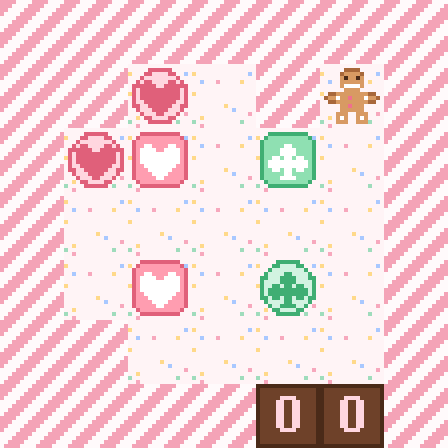
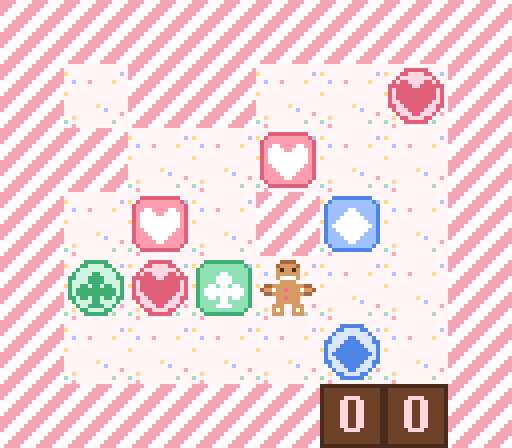
Caramelos Pegajosos: 3 niveles nuevos (Chicle en la esquina, Racion doble, Atasco de golosinas); ahora 9

diff --git a/index.html b/index.html
@@ -20744,7 +20744,7 @@ function Animatable(key, increment, update) {
[1 lines of base64/hex data omitted]
 </div>
 
-<script>const sourceCode="title Caramelos Pegajosos\nauthor Spider\nhomepage spyder-cripto.github.io\nsprite_size 16\nbackground_color #fff4f6\ntext_color #6e4129\ntext_controls Flechas o deslizar: mover. Z: deshacer. R: reiniciar.\nnoaction\nrun_rules_on_level_start\n\n========\nOBJECTS\n========\n\nBackground\n#fff4f6 #f7a8bd #9fdcbc #ffd98a #a9c8ff\n0000000000000000\n0000000000000000\n3000000000000040\n0000000000000000\n0040001000003000\n0000000000000000\n0000000000000000\n3000000000000000\n0000000000000000\n0000000000000000\n0000000030000000\n0000000000400000\n0000000000000010\n0030000000000000\n2000000000002000\n0010000000000000\n\nWall\n#f4a3b7 #fffafb\n0000111100001111\n0001111000011110\n0011110000111100\n0111100001111000\n1111000011110000\n1110000111100001\n1100001111000011\n1000011110000111\n0000111100001111\n0001111000011110\n0011110000111100\n0111100001111000\n1111000011110000\n1110000111100001\n1100001111000011\n1000011110000111\n\nTapaCifra\n#f4a3b7 #fffafb\n0000111100001111\n0001111000011110\n0011110000111100\n0111100001111000\n1111000011110000\n1110000111100001\n1100001111000011\n1000011110000111\n0000111100001111\n0001111000011110\n0011110000111100\n0111100001111000\n1111000011110000\n1110000111100001\n1100001111000011\n1000011110000111\n\nPlayer\n#a8673a #d89a63 #ffffff #f06f8f #4a2a18\n................\n......0000......\n.....011110.....\n.....141141.....\n.....111111.....\n.....122221.....\n......1111......\n..001111111100..\n.01121131112110.\n..001111111100..\n.....113111.....\n.....111111.....\n....111..111....\n....121..121....\n....111..111....\n................\n\nCR\n#e0607a #ff9db0 #ffffff #c98a12 #ffe08a\n................\n...0000000000...\n..011111111110..\n.01111111111110.\n.01122111122110.\n.01222211222210.\n.01222222222210.\n.01222222222210.\n.01222222222210.\n.01122222222110.\n.01112222221110.\n.01111222211110.\n.01111122111110.\n..011111111110..\n...0000000000...\n................\n\nRD\n#e0607a #ff9db0 #ffffff #c98a12 #ffe08a\n................\n...3333333333...\n..344444444443..\n.34111111111143.\n.34122111122143.\n.34222211222243.\n.34222222222243.\n.34222222222243.\n.34222222222243.\n.34122222222143.\n.34112222221143.\n.34111222211143.\n.34111122111143.\n..344444444443..\n...3333333333...\n................\n\nCG\n#3fae73 #8fe0b2 #ffffff #c98a12 #ffe08a\n................\n...0000000000...\n..011111111110..\n.01111111111110.\n.01111122111110.\n.01111222211110.\n.01111222211110.\n.01122122122110.\n.01222222222210.\n.01222222222210.\n.01122122122110.\n.01111122111110.\n.01111222211110.\n..011111111110..\n...0000000000...\n................\n\nGD\n#3fae73 #8fe0b2 #ffffff #c98a12 #ffe08a\n................\n...3333333333...\n..344444444443..\n.34111111111143.\n.34111122111143.\n.34111222211143.\n.34111222211143.\n.34122122122143.\n.34222222222243.\n.34222222222243.\n.34122122122143.\n.34111122111143.\n.34111222211143.\n..344444444443..\n...3333333333...\n................\n\nCB\n#4f86e6 #9fc2ff #ffffff #c98a12 #ffe08a\n................\n...0000000000...\n..011111111110..\n.01111111111110.\n.01111122111110.\n.01111222211110.\n.01112222221110.\n.01122222222110.\n.01222222222210.\n.01122222222110.\n.01112222221110.\n.01111222211110.\n.01111122111110.\n..011111111110..\n...0000000000...\n................\n\nBD\n#4f86e6 #9fc2ff #ffffff #c98a12 #ffe08a\n................\n...3333333333...\n..344444444443..\n.34111111111143.\n.34111122111143.\n.34111222211143.\n.34112222221143.\n.34122222222143.\n.34222222222243.\n.34122222222143.\n.34112222221143.\n.34111222211143.\n.34111122111143.\n..344444444443..\n...3333333333...\n................\n\nCV\n#8a62d6 #c8acf5 #ffffff #c98a12 #ffe08a\n................\n...0000000000...\n..011111111110..\n.01111111111110.\n.01111122111110.\n.01111222211110.\n.01112222221110.\n.01122222222110.\n.01222222222210.\n.01222222222210.\n.01122122122110.\n.01111122111110.\n.01111222211110.\n..011111111110..\n...0000000000...\n................\n\nVD\n#8a62d6 #c8acf5 #ffffff #c98a12 #ffe08a\n................\n...3333333333...\n..344444444443..\n.34111111111143.\n.34111122111143.\n.34111222211143.\n.34112222221143.\n.34122222222143.\n.34222222222243.\n.34222222222243.\n.34122122122143.\n.34111122111143.\n.34111222211143.\n..344444444443..\n...3333333333...\n................\n\nTR\n#e0607a #ffd6df\n................\n.....000000.....\n....00111100....\n...0111111110...\n..010011110010..\n.00000011000000.\n.01000000000010.\n.01000000000010.\n.01000000000010.\n.01100000000110.\n.00110000001100.\n..011100001110..\n...0111001110...\n....00111100....\n.....000000.....\n................\n\nTG\n#3fae73 #d2f3e1\n................\n.....000000.....\n....00111100....\n...0111111110...\n..011110011110..\n.00111000011100.\n.01111000011110.\n.01100100100110.\n.01000000000010.\n.01000000000010.\n.00100100100100.\n..011110011110..\n...0110000110...\n....00111100....\n.....000000.....\n................\n\nTB\n#4f86e6 #d9e6ff\n................\n.....000000.....\n....00111100....\n...0111111110...\n..011110011110..\n.00111000011100.\n.01110000001110.\n.01100000000110.\n.01000000000010.\n.01100000000110.\n.00110000001100.\n..011100001110..\n...0111001110...\n....00111100....\n.....000000.....\n................\n\nTV\n#8a62d6 #ebdffb\n................\n.....000000.....\n....00111100....\n...0111111110...\n..011110011110..\n.00111000011100.\n.01110000001110.\n.01100000000110.\n.01000000000010.\n.01000000000010.\n.00100100100100.\n..011110011110..\n...0110000110...\n....00111100....\n.....000000.....\n................\n\nD0\n#4a2a18 #6e4129 #ffd6e0\n0000000000000000\n0111111111111110\n0111111111111110\n0111112222111110\n0111122112211110\n0111122112211110\n0111122112211110\n0111122112211110\n0111122112211110\n0111122112211110\n0111122112211110\n0111112222111110\n0111111111111110\n0111111111111110\n0111111111111110\n0000000000000000\n\nD1\n#4a2a18 #6e4129 #ffd6e0\n0000000000000000\n0111111111111110\n0111111111111110\n0111111221111110\n0111112221111110\n0111111221111110\n0111111221111110\n0111111221111110\n0111111221111110\n0111111221111110\n0111111221111110\n0111112222111110\n0111111111111110\n0111111111111110\n0111111111111110\n0000000000000000\n\nD2\n#4a2a18 #6e4129 #ffd6e0\n0000000000000000\n0111111111111110\n0111111111111110\n0111112222111110\n0111122112211110\n0111111112211110\n0111111122111110\n0111111221111110\n0111112211111110\n0111122111111110\n0111122111111110\n0111122222211110\n0111111111111110\n0111111111111110\n0111111111111110\n0000000000000000\n\nD3\n#4a2a18 #6e4129 #ffd6e0\n0000000000000000\n0111111111111110\n0111111111111110\n0111112222111110\n0111122112211110\n0111111112211110\n0111111222111110\n0111111112211110\n0111111112211110\n0111111112211110\n0111122112211110\n0111112222111110\n0111111111111110\n0111111111111110\n0111111111111110\n0000000000000000\n\nD4\n#4a2a18 #6e4129 #ffd6e0\n0000000000000000\n0111111111111110\n0111111111111110\n0111111122111110\n0111111222111110\n0111112222111110\n0111122122111110\n0111122122111110\n0111122222211110\n0111111122111110\n0111111122111110\n0111111122111110\n0111111111111110\n0111111111111110\n0111111111111110\n0000000000000000\n\nD5\n#4a2a18 #6e4129 #ffd6e0\n0000000000000000\n0111111111111110\n0111111111111110\n0111122222211110\n0111122111111110\n0111122111111110\n0111122222111110\n0111111112211110\n0111111112211110\n0111111112211110\n0111122112211110\n0111112222111110\n0111111111111110\n0111111111111110\n0111111111111110\n0000000000000000\n\nD6\n#4a2a18 #6e4129 #ffd6e0\n0000000000000000\n0111111111111110\n0111111111111110\n0111112222111110\n0111122112211110\n0111122111111110\n0111122222111110\n0111122112211110\n0111122112211110\n0111122112211110\n0111122112211110\n0111112222111110\n0111111111111110\n0111111111111110\n0111111111111110\n0000000000000000\n\nD7\n#4a2a18 #6e4129 #ffd6e0\n0000000000000000\n0111111111111110\n0111111111111110\n0111122222211110\n0111111112211110\n0111111112211110\n0111111122111110\n0111111122111110\n0111111221111110\n0111111221111110\n0111111221111110\n0111111221111110\n0111111111111110\n0111111111111110\n0111111111111110\n0000000000000000\n\nD8\n#4a2a18 #6e4129 #ffd6e0\n0000000000000000\n0111111111111110\n0111111111111110\n0111112222111110\n0111122112211110\n0111122112211110\n0111112222111110\n0111122112211110\n0111122112211110\n0111122112211110\n0111122112211110\n0111112222111110\n0111111111111110\n0111111111111110\n0111111111111110\n0000000000000000\n\nD9\n#4a2a18 #6e4129 #ffd6e0\n0000000000000000\n0111111111111110\n0111111111111110\n0111112222111110\n0111122112211110\n0111122112211110\n0111122112211110\n0111112222211110\n0111111112211110\n0111111112211110\n0111122112211110\n0111112222111110\n0111111111111110\n0111111111111110\n0111111111111110\n0000000000000000\n\nU_Marker\ntransparent\n\nT_Marker\ntransparent\n\nH_Marker\ntransparent\n\nMovS\ntransparent\n\nCar1\ntransparent\n\nCar2\ntransparent\n\nPegaR\n#ffd98a #e0a83c\n................\n................\n................\n................\n................\n.............111\n.............000\n.............000\n.............000\n.............000\n.............111\n................\n................\n................\n................\n................\n\nPegaL\n#ffd98a #e0a83c\n................\n................\n................\n................\n................\n111.............\n000.............\n000.............\n000.............\n000.............\n111.............\n................\n................\n................\n................\n................\n\nPegaD\n#ffd98a #e0a83c\n................\n................\n................\n................\n................\n................\n................\n................\n................\n................\n................\n................\n................\n.....100001.....\n.....100001.....\n.....100001.....\n\nPegaU\n#ffd98a #e0a83c\n.....100001.....\n.....100001.....\n.....100001.....\n................\n................\n................\n................\n................\n................\n................\n................\n................\n................\n................\n................\n................\n\nChicle\n#d9568f #ff9cc6 #ffffff #ffe3f0\n................\n................\n.....000000.....\n....011112222...\n...0111112332...\n..011111233332..\n..011111123320..\n.01111111222210.\n.01111111111110.\n.01111111111110.\n..011111111110..\n..011111111110..\n...0111111110...\n....01111110....\n.....000000.....\n................\n\n=======\nLEGEND\n=======\n\n. = Background\n# = Wall\np = Player\na = CR\nb = CG\nc = CB\nd = CV\nn = Chicle\nx = TR\ny = TG\nz = TB\nw = TV\n1 = RD and TR\n2 = GD and TG\n3 = BD and TB\n7 = VD and TV\n4 = Player and TR\n5 = Player and TG\n6 = Player and TB\n8 = Player and TV\ne = H_Marker and D0 and TapaCifra\nf = T_Marker and D0\ng = U_Marker and D0\nRojo = CR or RD\nVerde = CG or GD\nAzul = CB or BD\nVioleta = CV or VD\nCandy = Rojo or Verde or Azul or Violeta or Chicle\nDigit = D0 or D1 or D2 or D3 or D4 or D5 or D6 or D7 or D8 or D9\nObstaculo = Wall or Digit\nPega = PegaL or PegaR or PegaU or PegaD\n\n=======\nSOUNDS\n=======\n\n================\nCOLLISIONLAYERS\n================\n\nBackground\nTR, TG, TB, TV\nU_Marker, T_Marker, H_Marker\nPlayer, Wall, CR, RD, CG, GD, CB, BD, CV, VD, Chicle, D0, D1, D2, D3, D4, D5, D6, D7, D8, D9\nPegaL\nPegaR\nPegaU\nPegaD\nTapaCifra\nMovS\nCar1\nCar2\n\n======\nRULES\n======\n\n( Mecánica de Sticky Candy Puzzle Saga, de Alan Hazelden: los caramelos que se tocan quedan pegados para siempre )\n( y se mueven juntos; si uno solo choca, no se mueve ninguno. )\n[ > Player no MovS ] -> [ > Player MovS ]\n[ > Player | Candy ] -> [ > Player | > Candy ]\n[ moving Candy | stationary Candy ] -> [ moving Candy | moving Candy ]\n[ > Candy | Obstaculo ] [ > Player | > Candy ] -> [ Candy | Obstaculo ] [ > Player | Candy ]\n[ > Player | stationary Candy ] [ moving Candy ] -> [ > Player | Candy ] [ Candy ]\n\n( Caramelo en su zona: ribete dorado )\nlate [ CR TR ] -> [ RD TR ]\nlate [ RD no TR ] -> [ CR ]\nlate [ CG TG ] -> [ GD TG ]\nlate [ GD no TG ] -> [ CG ]\nlate [ CB TB ] -> [ BD TB ]\nlate [ BD no TB ] -> [ CB ]\nlate [ CV TV ] -> [ VD TV ]\nlate [ VD no TV ] -> [ CV ]\n\n( Puentes de miel entre los caramelos pegados )\nlate [ Pega ] -> [ ]\nlate right [ Candy | Candy ] -> [ Candy PegaR | Candy PegaL ]\nlate down [ Candy | Candy ] -> [ Candy PegaD | Candy PegaU ]\n\n( Contador de pasos, copiado de El Cubo de Hielo )\nlate [ Player MovS ] -> [ Player ]\n\nlate [ MovS ] [ U_Marker D0 ] -> [ ] [ U_Marker D1 ]\nlate [ MovS ] [ U_Marker D1 ] -> [ ] [ U_Marker D2 ]\nlate [ MovS ] [ U_Marker D2 ] -> [ ] [ U_Marker D3 ]\nlate [ MovS ] [ U_Marker D3 ] -> [ ] [ U_Marker D4 ]\nlate [ MovS ] [ U_Marker D4 ] -> [ ] [ U_Marker D5 ]\nlate [ MovS ] [ U_Marker D5 ] -> [ ] [ U_Marker D6 ]\nlate [ MovS ] [ U_Marker D6 ] -> [ ] [ U_Marker D7 ]\nlate [ MovS ] [ U_Marker D7 ] -> [ ] [ U_Marker D8 ]\nlate [ MovS ] [ U_Marker D8 ] -> [ ] [ U_Marker D9 ]\nlate [ MovS ] [ U_Marker D9 ] -> [ ] [ U_Marker D0 Car1 ]\n\nlate [ Car1 ] [ T_Marker D0 ] -> [ ] [ T_Marker D1 ]\nlate [ Car1 ] [ T_Marker D1 ] -> [ ] [ T_Marker D2 ]\nlate [ Car1 ] [ T_Marker D2 ] -> [ ] [ T_Marker D3 ]\nlate [ Car1 ] [ T_Marker D3 ] -> [ ] [ T_Marker D4 ]\nlate [ Car1 ] [ T_Marker D4 ] -> [ ] [ T_Marker D5 ]\nlate [ Car1 ] [ T_Marker D5 ] -> [ ] [ T_Marker D6 ]\nlate [ Car1 ] [ T_Marker D6 ] -> [ ] [ T_Marker D7 ]\nlate [ Car1 ] [ T_Marker D7 ] -> [ ] [ T_Marker D8 ]\nlate [ Car1 ] [ T_Marker D8 ] -> [ ] [ T_Marker D9 ]\nlate [ Car1 ] [ T_Marker D9 ] -> [ ] [ T_Marker D0 Car2 ]\n\nlate [ Car2 ] [ H_Marker D0 ] -> [ ] [ H_Marker D1 ]\nlate [ Car2 ] [ H_Marker D1 ] -> [ ] [ H_Marker D2 ]\nlate [ Car2 ] [ H_Marker D2 ] -> [ ] [ H_Marker D3 ]\nlate [ Car2 ] [ H_Marker D3 ] -> [ ] [ H_Marker D4 ]\nlate [ Car2 ] [ H_Marker D4 ] -> [ ] [ H_Marker D5 ]\nlate [ Car2 ] [ H_Marker D5 ] -> [ ] [ H_Marker D6 ]\nlate [ Car2 ] [ H_Marker D6 ] -> [ ] [ H_Marker D7 ]\nlate [ Car2 ] [ H_Marker D7 ] -> [ ] [ H_Marker D8 ]\nlate [ Car2 ] [ H_Marker D8 ] -> [ ] [ H_Marker D9 ]\nlate [ TapaCifra ] -> [ ]\nlate [ H_Marker D0 no TapaCifra ] -> [ H_Marker D0 TapaCifra ]\nlate [ MovS ] -> [ ]\n\n==============\nWINCONDITIONS\n==============\n\nAll Rojo on TR\nAll Verde on TG\nAll Azul on TB\nAll Violeta on TV\n\n=======\nLEVELS\n=======\n\nmessage Nivel 1 de 6 · Primer bocado\n\n######\n#p#..#\n#ya..#\n#b...#\n#x...#\n##efg#\n\nmessage Nivel 2 de 6 · Golosina\n\n######\n#x..p#\n#1.a##\n#....#\n#y.b.#\n##efg#\n\nmessage Nivel 3 de 6 · Pegajoso\n\n#######\n#....p#\n#ya.#1#\n#...b.#\n#.b..y#\n#...#x#\n###efg#\n\nmessage Nivel 4 de 6 · Chicle traicionero\n\n########\n#2...#.#\n##..a.p#\n#....#.#\n#..c#..#\n#zn.x.##\n####efg#\n\nmessage Nivel 5 de 6 · Puente de chicle\n\n#######\n##.#..#\n#....a#\n#.x...#\n#yn.b.#\n#p#...#\n###efg#\n\nmessage Nivel 6 de 6 · Empacho\n\n#######\n##x.#p#\n#xa.b.#\n#.....#\n#.a.y.#\n##....#\n###efg#\n";compile(["restart"],sourceCode);</script>
+<script>const sourceCode="title Caramelos Pegajosos\nauthor Spider\nhomepage spyder-cripto.github.io\nsprite_size 16\nbackground_color #fff4f6\ntext_color #6e4129\ntext_controls Flechas o deslizar: mover. Z: deshacer. R: reiniciar.\nnoaction\nrun_rules_on_level_start\n\n========\nOBJECTS\n========\n\nBackground\n#fff4f6 #f7a8bd #9fdcbc #ffd98a #a9c8ff\n0000000000000000\n0000000000000000\n3000000000000040\n0000000000000000\n0040001000003000\n0000000000000000\n0000000000000000\n3000000000000000\n0000000000000000\n0000000000000000\n0000000030000000\n0000000000400000\n0000000000000010\n0030000000000000\n2000000000002000\n0010000000000000\n\nWall\n#f4a3b7 #fffafb\n0000111100001111\n0001111000011110\n0011110000111100\n0111100001111000\n1111000011110000\n1110000111100001\n1100001111000011\n1000011110000111\n0000111100001111\n0001111000011110\n0011110000111100\n0111100001111000\n1111000011110000\n1110000111100001\n1100001111000011\n1000011110000111\n\nTapaCifra\n#f4a3b7 #fffafb\n0000111100001111\n0001111000011110\n0011110000111100\n0111100001111000\n1111000011110000\n1110000111100001\n1100001111000011\n1000011110000111\n0000111100001111\n0001111000011110\n0011110000111100\n0111100001111000\n1111000011110000\n1110000111100001\n1100001111000011\n1000011110000111\n\nPlayer\n#a8673a #d89a63 #ffffff #f06f8f #4a2a18\n................\n......0000......\n.....011110.....\n.....141141.....\n.....111111.....\n.....122221.....\n......1111......\n..001111111100..\n.01121131112110.\n..001111111100..\n.....113111.....\n.....111111.....\n....111..111....\n....121..121....\n....111..111....\n................\n\nCR\n#e0607a #ff9db0 #ffffff #c98a12 #ffe08a\n................\n...0000000000...\n..011111111110..\n.01111111111110.\n.01122111122110.\n.01222211222210.\n.01222222222210.\n.01222222222210.\n.01222222222210.\n.01122222222110.\n.01112222221110.\n.01111222211110.\n.01111122111110.\n..011111111110..\n...0000000000...\n................\n\nRD\n#e0607a #ff9db0 #ffffff #c98a12 #ffe08a\n................\n...3333333333...\n..344444444443..\n.34111111111143.\n.34122111122143.\n.34222211222243.\n.34222222222243.\n.34222222222243.\n.34222222222243.\n.34122222222143.\n.34112222221143.\n.34111222211143.\n.34111122111143.\n..344444444443..\n...3333333333...\n................\n\nCG\n#3fae73 #8fe0b2 #ffffff #c98a12 #ffe08a\n................\n...0000000000...\n..011111111110..\n.01111111111110.\n.01111122111110.\n.01111222211110.\n.01111222211110.\n.01122122122110.\n.01222222222210.\n.01222222222210.\n.01122122122110.\n.01111122111110.\n.01111222211110.\n..011111111110..\n...0000000000...\n................\n\nGD\n#3fae73 #8fe0b2 #ffffff #c98a12 #ffe08a\n................\n...3333333333...\n..344444444443..\n.34111111111143.\n.34111122111143.\n.34111222211143.\n.34111222211143.\n.34122122122143.\n.34222222222243.\n.34222222222243.\n.34122122122143.\n.34111122111143.\n.34111222211143.\n..344444444443..\n...3333333333...\n................\n\nCB\n#4f86e6 #9fc2ff #ffffff #c98a12 #ffe08a\n................\n...0000000000...\n..011111111110..\n.01111111111110.\n.01111122111110.\n.01111222211110.\n.01112222221110.\n.01122222222110.\n.01222222222210.\n.01122222222110.\n.01112222221110.\n.01111222211110.\n.01111122111110.\n..011111111110..\n...0000000000...\n................\n\nBD\n#4f86e6 #9fc2ff #ffffff #c98a12 #ffe08a\n................\n...3333333333...\n..344444444443..\n.34111111111143.\n.34111122111143.\n.34111222211143.\n.34112222221143.\n.34122222222143.\n.34222222222243.\n.34122222222143.\n.34112222221143.\n.34111222211143.\n.34111122111143.\n..344444444443..\n...3333333333...\n................\n\nCV\n#8a62d6 #c8acf5 #ffffff #c98a12 #ffe08a\n................\n...0000000000...\n..011111111110..\n.01111111111110.\n.01111122111110.\n.01111222211110.\n.01112222221110.\n.01122222222110.\n.01222222222210.\n.01222222222210.\n.01122122122110.\n.01111122111110.\n.01111222211110.\n..011111111110..\n...0000000000...\n................\n\nVD\n#8a62d6 #c8acf5 #ffffff #c98a12 #ffe08a\n................\n...3333333333...\n..344444444443..\n.34111111111143.\n.34111122111143.\n.34111222211143.\n.34112222221143.\n.34122222222143.\n.34222222222243.\n.34222222222243.\n.34122122122143.\n.34111122111143.\n.34111222211143.\n..344444444443..\n...3333333333...\n................\n\nTR\n#e0607a #ffd6df\n................\n.....000000.....\n....00111100....\n...0111111110...\n..010011110010..\n.00000011000000.\n.01000000000010.\n.01000000000010.\n.01000000000010.\n.01100000000110.\n.00110000001100.\n..011100001110..\n...0111001110...\n....00111100....\n.....000000.....\n................\n\nTG\n#3fae73 #d2f3e1\n................\n.....000000.....\n....00111100....\n...0111111110...\n..011110011110..\n.00111000011100.\n.01111000011110.\n.01100100100110.\n.01000000000010.\n.01000000000010.\n.00100100100100.\n..011110011110..\n...0110000110...\n....00111100....\n.....000000.....\n................\n\nTB\n#4f86e6 #d9e6ff\n................\n.....000000.....\n....00111100....\n...0111111110...\n..011110011110..\n.00111000011100.\n.01110000001110.\n.01100000000110.\n.01000000000010.\n.01100000000110.\n.00110000001100.\n..011100001110..\n...0111001110...\n....00111100....\n.....000000.....\n................\n\nTV\n#8a62d6 #ebdffb\n................\n.....000000.....\n....00111100....\n...0111111110...\n..011110011110..\n.00111000011100.\n.01110000001110.\n.01100000000110.\n.01000000000010.\n.01000000000010.\n.00100100100100.\n..011110011110..\n...0110000110...\n....00111100....\n.....000000.....\n................\n\nD0\n#4a2a18 #6e4129 #ffd6e0\n0000000000000000\n0111111111111110\n0111111111111110\n0111112222111110\n0111122112211110\n0111122112211110\n0111122112211110\n0111122112211110\n0111122112211110\n0111122112211110\n0111122112211110\n0111112222111110\n0111111111111110\n0111111111111110\n0111111111111110\n0000000000000000\n\nD1\n#4a2a18 #6e4129 #ffd6e0\n0000000000000000\n0111111111111110\n0111111111111110\n0111111221111110\n0111112221111110\n0111111221111110\n0111111221111110\n0111111221111110\n0111111221111110\n0111111221111110\n0111111221111110\n0111112222111110\n0111111111111110\n0111111111111110\n0111111111111110\n0000000000000000\n\nD2\n#4a2a18 #6e4129 #ffd6e0\n0000000000000000\n0111111111111110\n0111111111111110\n0111112222111110\n0111122112211110\n0111111112211110\n0111111122111110\n0111111221111110\n0111112211111110\n0111122111111110\n0111122111111110\n0111122222211110\n0111111111111110\n0111111111111110\n0111111111111110\n0000000000000000\n\nD3\n#4a2a18 #6e4129 #ffd6e0\n0000000000000000\n0111111111111110\n0111111111111110\n0111112222111110\n0111122112211110\n0111111112211110\n0111111222111110\n0111111112211110\n0111111112211110\n0111111112211110\n0111122112211110\n0111112222111110\n0111111111111110\n0111111111111110\n0111111111111110\n0000000000000000\n\nD4\n#4a2a18 #6e4129 #ffd6e0\n0000000000000000\n0111111111111110\n0111111111111110\n0111111122111110\n0111111222111110\n0111112222111110\n0111122122111110\n0111122122111110\n0111122222211110\n0111111122111110\n0111111122111110\n0111111122111110\n0111111111111110\n0111111111111110\n0111111111111110\n0000000000000000\n\nD5\n#4a2a18 #6e4129 #ffd6e0\n0000000000000000\n0111111111111110\n0111111111111110\n0111122222211110\n0111122111111110\n0111122111111110\n0111122222111110\n0111111112211110\n0111111112211110\n0111111112211110\n0111122112211110\n0111112222111110\n0111111111111110\n0111111111111110\n0111111111111110\n0000000000000000\n\nD6\n#4a2a18 #6e4129 #ffd6e0\n0000000000000000\n0111111111111110\n0111111111111110\n0111112222111110\n0111122112211110\n0111122111111110\n0111122222111110\n0111122112211110\n0111122112211110\n0111122112211110\n0111122112211110\n0111112222111110\n0111111111111110\n0111111111111110\n0111111111111110\n0000000000000000\n\nD7\n#4a2a18 #6e4129 #ffd6e0\n0000000000000000\n0111111111111110\n0111111111111110\n0111122222211110\n0111111112211110\n0111111112211110\n0111111122111110\n0111111122111110\n0111111221111110\n0111111221111110\n0111111221111110\n0111111221111110\n0111111111111110\n0111111111111110\n0111111111111110\n0000000000000000\n\nD8\n#4a2a18 #6e4129 #ffd6e0\n0000000000000000\n0111111111111110\n0111111111111110\n0111112222111110\n0111122112211110\n0111122112211110\n0111112222111110\n0111122112211110\n0111122112211110\n0111122112211110\n0111122112211110\n0111112222111110\n0111111111111110\n0111111111111110\n0111111111111110\n0000000000000000\n\nD9\n#4a2a18 #6e4129 #ffd6e0\n0000000000000000\n0111111111111110\n0111111111111110\n0111112222111110\n0111122112211110\n0111122112211110\n0111122112211110\n0111112222211110\n0111111112211110\n0111111112211110\n0111122112211110\n0111112222111110\n0111111111111110\n0111111111111110\n0111111111111110\n0000000000000000\n\nU_Marker\ntransparent\n\nT_Marker\ntransparent\n\nH_Marker\ntransparent\n\nMovS\ntransparent\n\nCar1\ntransparent\n\nCar2\ntransparent\n\nPegaR\n#ffd98a #e0a83c\n................\n................\n................\n................\n................\n.............111\n.............000\n.............000\n.............000\n.............000\n.............111\n................\n................\n................\n................\n................\n\nPegaL\n#ffd98a #e0a83c\n................\n................\n................\n................\n................\n111.............\n000.............\n000.............\n000.............\n000.............\n111.............\n................\n................\n................\n................\n................\n\nPegaD\n#ffd98a #e0a83c\n................\n................\n................\n................\n................\n................\n................\n................\n................\n................\n................\n................\n................\n.....100001.....\n.....100001.....\n.....100001.....\n\nPegaU\n#ffd98a #e0a83c\n.....100001.....\n.....100001.....\n.....100001.....\n................\n................\n................\n................\n................\n................\n................\n................\n................\n................\n................\n................\n................\n\nChicle\n#d9568f #ff9cc6 #ffffff #ffe3f0\n................\n................\n.....000000.....\n....011112222...\n...0111112332...\n..011111233332..\n..011111123320..\n.01111111222210.\n.01111111111110.\n.01111111111110.\n..011111111110..\n..011111111110..\n...0111111110...\n....01111110....\n.....000000.....\n................\n\n=======\nLEGEND\n=======\n\n. = Background\n# = Wall\np = Player\na = CR\nb = CG\nc = CB\nd = CV\nn = Chicle\nx = TR\ny = TG\nz = TB\nw = TV\n1 = RD and TR\n2 = GD and TG\n3 = BD and TB\n7 = VD and TV\n4 = Player and TR\n5 = Player and TG\n6 = Player and TB\n8 = Player and TV\ne = H_Marker and D0 and TapaCifra\nf = T_Marker and D0\ng = U_Marker and D0\nRojo = CR or RD\nVerde = CG or GD\nAzul = CB or BD\nVioleta = CV or VD\nCandy = Rojo or Verde or Azul or Violeta or Chicle\nDigit = D0 or D1 or D2 or D3 or D4 or D5 or D6 or D7 or D8 or D9\nObstaculo = Wall or Digit\nPega = PegaL or PegaR or PegaU or PegaD\n\n=======\nSOUNDS\n=======\n\n================\nCOLLISIONLAYERS\n================\n\nBackground\nTR, TG, TB, TV\nU_Marker, T_Marker, H_Marker\nPlayer, Wall, CR, RD, CG, GD, CB, BD, CV, VD, Chicle, D0, D1, D2, D3, D4, D5, D6, D7, D8, D9\nPegaL\nPegaR\nPegaU\nPegaD\nTapaCifra\nMovS\nCar1\nCar2\n\n======\nRULES\n======\n\n( Mecánica de Sticky Candy Puzzle Saga, de Alan Hazelden: los caramelos que se tocan quedan pegados para siempre )\n( y se mueven juntos; si uno solo choca, no se mueve ninguno. )\n[ > Player no MovS ] -> [ > Player MovS ]\n[ > Player | Candy ] -> [ > Player | > Candy ]\n[ moving Candy | stationary Candy ] -> [ moving Candy | moving Candy ]\n[ > Candy | Obstaculo ] [ > Player | > Candy ] -> [ Candy | Obstaculo ] [ > Player | Candy ]\n[ > Player | stationary Candy ] [ moving Candy ] -> [ > Player | Candy ] [ Candy ]\n\n( Caramelo en su zona: ribete dorado )\nlate [ CR TR ] -> [ RD TR ]\nlate [ RD no TR ] -> [ CR ]\nlate [ CG TG ] -> [ GD TG ]\nlate [ GD no TG ] -> [ CG ]\nlate [ CB TB ] -> [ BD TB ]\nlate [ BD no TB ] -> [ CB ]\nlate [ CV TV ] -> [ VD TV ]\nlate [ VD no TV ] -> [ CV ]\n\n( Puentes de miel entre los caramelos pegados )\nlate [ Pega ] -> [ ]\nlate right [ Candy | Candy ] -> [ Candy PegaR | Candy PegaL ]\nlate down [ Candy | Candy ] -> [ Candy PegaD | Candy PegaU ]\n\n( Contador de pasos, copiado de El Cubo de Hielo )\nlate [ Player MovS ] -> [ Player ]\n\nlate [ MovS ] [ U_Marker D0 ] -> [ ] [ U_Marker D1 ]\nlate [ MovS ] [ U_Marker D1 ] -> [ ] [ U_Marker D2 ]\nlate [ MovS ] [ U_Marker D2 ] -> [ ] [ U_Marker D3 ]\nlate [ MovS ] [ U_Marker D3 ] -> [ ] [ U_Marker D4 ]\nlate [ MovS ] [ U_Marker D4 ] -> [ ] [ U_Marker D5 ]\nlate [ MovS ] [ U_Marker D5 ] -> [ ] [ U_Marker D6 ]\nlate [ MovS ] [ U_Marker D6 ] -> [ ] [ U_Marker D7 ]\nlate [ MovS ] [ U_Marker D7 ] -> [ ] [ U_Marker D8 ]\nlate [ MovS ] [ U_Marker D8 ] -> [ ] [ U_Marker D9 ]\nlate [ MovS ] [ U_Marker D9 ] -> [ ] [ U_Marker D0 Car1 ]\n\nlate [ Car1 ] [ T_Marker D0 ] -> [ ] [ T_Marker D1 ]\nlate [ Car1 ] [ T_Marker D1 ] -> [ ] [ T_Marker D2 ]\nlate [ Car1 ] [ T_Marker D2 ] -> [ ] [ T_Marker D3 ]\nlate [ Car1 ] [ T_Marker D3 ] -> [ ] [ T_Marker D4 ]\nlate [ Car1 ] [ T_Marker D4 ] -> [ ] [ T_Marker D5 ]\nlate [ Car1 ] [ T_Marker D5 ] -> [ ] [ T_Marker D6 ]\nlate [ Car1 ] [ T_Marker D6 ] -> [ ] [ T_Marker D7 ]\nlate [ Car1 ] [ T_Marker D7 ] -> [ ] [ T_Marker D8 ]\nlate [ Car1 ] [ T_Marker D8 ] -> [ ] [ T_Marker D9 ]\nlate [ Car1 ] [ T_Marker D9 ] -> [ ] [ T_Marker D0 Car2 ]\n\nlate [ Car2 ] [ H_Marker D0 ] -> [ ] [ H_Marker D1 ]\nlate [ Car2 ] [ H_Marker D1 ] -> [ ] [ H_Marker D2 ]\nlate [ Car2 ] [ H_Marker D2 ] -> [ ] [ H_Marker D3 ]\nlate [ Car2 ] [ H_Marker D3 ] -> [ ] [ H_Marker D4 ]\nlate [ Car2 ] [ H_Marker D4 ] -> [ ] [ H_Marker D5 ]\nlate [ Car2 ] [ H_Marker D5 ] -> [ ] [ H_Marker D6 ]\nlate [ Car2 ] [ H_Marker D6 ] -> [ ] [ H_Marker D7 ]\nlate [ Car2 ] [ H_Marker D7 ] -> [ ] [ H_Marker D8 ]\nlate [ Car2 ] [ H_Marker D8 ] -> [ ] [ H_Marker D9 ]\nlate [ TapaCifra ] -> [ ]\nlate [ H_Marker D0 no TapaCifra ] -> [ H_Marker D0 TapaCifra ]\nlate [ MovS ] -> [ ]\n\n==============\nWINCONDITIONS\n==============\n\nAll Rojo on TR\nAll Verde on TG\nAll Azul on TB\nAll Violeta on TV\n\n=======\nLEVELS\n=======\n\nmessage Nivel 1 de 9 · Primer bocado\n\n######\n#p#..#\n#ya..#\n#b...#\n#x...#\n##efg#\n\nmessage Nivel 2 de 9 · Golosina\n\n######\n#x..p#\n#1.a##\n#....#\n#y.b.#\n##efg#\n\nmessage Nivel 3 de 9 · Pegajoso\n\n#######\n#....p#\n#ya.#1#\n#...b.#\n#.b..y#\n#...#x#\n###efg#\n\nmessage Nivel 4 de 9 · Chicle traicionero\n\n########\n#2...#.#\n##..a.p#\n#....#.#\n#..c#..#\n#zn.x.##\n####efg#\n\nmessage Nivel 5 de 9 · Chicle en la esquina\n\n#######\n##...x#\n#ya..n#\n#...p.#\n#.b.1.#\n#.##..#\n###efg#\n\nmessage Nivel 6 de 9 · Puente de chicle\n\n#######\n##.#..#\n#....a#\n#.x...#\n#yn.b.#\n#p#...#\n###efg#\n\nmessage Nivel 7 de 9 · Empacho\n\n#######\n##x.#p#\n#xa.b.#\n#.....#\n#.a.y.#\n##....#\n###efg#\n\nmessage Nivel 8 de 9 · Ración doble\n\n########\n##...###\n#..aap.#\n##....n#\n#.2yb#.#\n#..xx..#\n####efg#\n\nmessage Nivel 9 de 9 · Atasco de golosinas\n\n########\n#.##..x#\n##..a..#\n#.a.#c.#\n#yxbp..#\n#....z.#\n####efg#\n";compile(["restart"],sourceCode);</script>
 
 <script>
 /* Ajuste de la pagina para movil. No toca las reglas del juego. */
@@ -20818,8 +20818,8 @@ function Animatable(key, increment, update) {
 </article>
 <article class="ch-tarjeta">
[2 lines of base64/hex data omitted]
-<p><span class="ch-tecla"><strong>1. Primer bocado</strong>: mínimo de 18 pasos.</span><span class="ch-tecla"><strong>2. Golosina</strong>: mínimo de 29 pasos.</span><span class="ch-tecla"><strong>3. Pegajoso</strong>: mínimo de 62 pasos.</span><span class="ch-tecla"><strong>4. Chicle traicionero</strong>: mínimo de 56 pasos.</span><span class="ch-tecla"><strong>5. Puente de chicle</strong>: mínimo de 76 pasos.</span><span class="ch-tecla"><strong>6. Empacho</strong>: mínimo de 78 pasos.</span><span class="ch-tecla">Cada mínimo está <strong>demostrado por ordenador</strong>. Tus pasos se cuentan en la placa de chocolate, abajo a la derecha: chocar no cuenta y deshacer los descuenta.</span></p>
[1 lines of base64/hex data omitted]
+<p><span class="ch-tecla"><strong>1. Primer bocado</strong>: mínimo de 18 pasos.</span><span class="ch-tecla"><strong>2. Golosina</strong>: mínimo de 29 pasos.</span><span class="ch-tecla"><strong>3. Pegajoso</strong>: mínimo de 62 pasos.</span><span class="ch-tecla"><strong>4. Chicle traicionero</strong>: mínimo de 56 pasos.</span><span class="ch-tecla"><strong>5. Chicle en la esquina</strong>: mínimo de 60 pasos.</span><span class="ch-tecla"><strong>6. Puente de chicle</strong>: mínimo de 76 pasos.</span><span class="ch-tecla"><strong>7. Empacho</strong>: mínimo de 78 pasos.</span><span class="ch-tecla"><strong>8. Ración doble</strong>: mínimo de 80 pasos.</span><span class="ch-tecla"><strong>9. Atasco de golosinas</strong>: mínimo de 89 pasos.</span><span class="ch-tecla">Cada mínimo está <strong>demostrado por ordenador</strong>. Tus pasos se cuentan en la placa de chocolate, abajo a la derecha: chocar no cuenta y deshacer los descuenta.</span></p>
 </article>
 <article class="ch-tarjeta">
[1 lines of base64/hex data omitted]
@@ -20875,7 +20875,7 @@ function Animatable(key, increment, update) {
 
 <script>
 window.__AYUDAS_ICONOS = {"ojo":"<svg viewBox=\"0 0 24 24\" aria-hidden=\"true\"><path d=\"M2 12c2.6-4.6 6-7 10-7s7.4 2.4 10 7c-2.6 4.6-6 7-10 7s-7.4-2.4-10-7z\" fill=\"none\" stroke=\"currentColor\" stroke-width=\"2.2\" stroke-linejoin=\"round\"/><circle cx=\"12\" cy=\"12\" r=\"3.6\" fill=\"currentColor\"/></svg>","reiniciar":"<svg viewBox=\"0 0 24 24\" aria-hidden=\"true\"><path d=\"M19.5 12a7.5 7.5 0 1 1-2.2-5.3\" fill=\"none\" stroke=\"currentColor\" stroke-width=\"2.4\" stroke-linecap=\"round\"/><path d=\"M20 3.5v5.2h-5.2\" fill=\"none\" stroke=\"currentColor\" stroke-width=\"2.4\" stroke-linecap=\"round\" stroke-linejoin=\"round\"/></svg>","pista":"<svg viewBox=\"0 0 24 24\" aria-hidden=\"true\"><path d=\"M12 2.5a6.5 6.5 0 0 0-3.9 11.7c.6.5.9 1.1.9 1.8v.6h6v-.6c0-.7.3-1.3.9-1.8A6.5 6.5 0 0 0 12 2.5z\" fill=\"currentColor\"/><rect x=\"9\" y=\"17.6\" width=\"6\" height=\"1.8\" rx=\".9\" fill=\"currentColor\"/><rect x=\"10\" y=\"20.2\" width=\"4\" height=\"1.8\" rx=\".9\" fill=\"currentColor\"/></svg>","deshacer":"<svg viewBox=\"0 0 24 24\" aria-hidden=\"true\"><path d=\"M9 7H15a5 5 0 0 1 0 10H8\" fill=\"none\" stroke=\"currentColor\" stroke-width=\"2.4\" stroke-linecap=\"round\"/><path d=\"M12 3.5L7.5 7 12 10.5\" fill=\"none\" stroke=\"currentColor\" stroke-width=\"2.4\" stroke-linecap=\"round\" stroke-linejoin=\"round\"/></svg>","solucion":"<svg viewBox=\"0 0 24 24\" aria-hidden=\"true\"><path d=\"M8 5.2v13.6c0 .8.9 1.3 1.6.8l10.2-6.8a1 1 0 0 0 0-1.6L9.6 4.4C8.9 3.9 8 4.4 8 5.2z\" fill=\"currentColor\"/></svg>","pausa":"<svg viewBox=\"0 0 24 24\" aria-hidden=\"true\"><rect x=\"6.5\" y=\"5\" width=\"3.8\" height=\"14\" rx=\"1\" fill=\"currentColor\"/><rect x=\"13.7\" y=\"5\" width=\"3.8\" height=\"14\" rx=\"1\" fill=\"currentColor\"/></svg>","atras":"<svg viewBox=\"0 0 24 24\" aria-hidden=\"true\"><rect x=\"5\" y=\"5\" width=\"2.6\" height=\"14\" rx=\"1\" fill=\"currentColor\"/><path d=\"M19 5.4v13.2c0 .8-.9 1.3-1.6.8L9.6 12.8a1 1 0 0 1 0-1.6l7.8-5.6c.7-.5 1.6 0 1.6.8z\" fill=\"currentColor\"/></svg>","adelante":"<svg viewBox=\"0 0 24 24\" aria-hidden=\"true\"><rect x=\"16.4\" y=\"5\" width=\"2.6\" height=\"14\" rx=\"1\" fill=\"currentColor\"/><path d=\"M5 5.4v13.2c0 .8.9 1.3 1.6.8L14.4 12.8a1 1 0 0 0 0-1.6L6.6 5.6c-.7-.5-1.6 0-1.6.8z\" fill=\"currentColor\"/></svg>"};
-window.__AYUDAS = {"deshacer":true,"soluciones":["DRDDLURRRUULDDRDLL","LLDDRRDLLULURURDLDDRRULDLURUL","LLDDDRRULDLLULUURRDDLLURDDDLUURUURRRDDDLLULUURDLDRRDRULLLLDRRR","DDLDLLULUURRDLDDRRURUULLDLDLLDRRUURUULLDDDRDLUUUURDDDLDR","UURRDDRURULUURDDLDLULLDRUURDRDDLURULDLURRRUULDRDLDDRUULLDLLURRDRRULRUULDRDLL","DDLLLLDRRUUULDDRRRULLDDDRUULLLDRRUUULDDRRRULLDDDRUULLLDRRUUULDRDLRRRULLDLUDDLU"],"finFijo":true};
+window.__AYUDAS = {"deshacer":true,"soluciones":["DRDDLURRRUULDDRDLL","LLDDRRDLLULURURDLDDRRULDLURUL","LLDDDRRULDLLULUURRDDLLURDDDLUURUURRRDDDLLULUURDLDRRDRULLLLDRRR","DDLDLLULUURRDLDDRRURUULLDLDLLDRRUURUULLDDDRDLUUUURDDDLDR","LLLURDRULURRDDRDDLURULDLULLDRRURULULDDRRRDDLURULDLURULLDLDRR","UURRDDRURULUURDDLDLULLDRUURDRDDLURULDLURRRUULDRDLDDRUULLDLLURRDRRULRUULDRDLL","DDLLLLDRRUUULDDRRRULLDDDRUULLLDRRUUULDDRRRULLDDDRUULLLDRRUUULDRDLRRRULLDLUDDLU","RDLLLLURDDDLUUUDRRRRULLDLDDRRRUUDDLLULURUULDDRDDRRUULRDDLLUUDDLLLURUURDRRULLULDD","RRUULDDLDLLURUURRDRULLLDDLLURDRULURRURDRDDLLLDLURRRRDLLLUUURRDRDLLDLULLDRRRURUULLDURRDDLL"],"finFijo":true};
 </script>
 <script>
 /* ayudas_caramelos.js — (hecha con adaptar_ayudas.js) copia de ayudas_modalidad.js para «Caramelos Pegajosos» (7-oct-2026).

diff --git a/README.md b/README.md
@@ -18,8 +18,11 @@ autónomo en **PuzzleScript Next**, con el estilo «Caramelo».
 2. Golosina: mínimo 29 pasos
 3. Pegajoso: mínimo 62 pasos
 4. Chicle traicionero: mínimo 56 pasos
-5. Puente de chicle: mínimo 76 pasos
-6. Empacho: mínimo 78 pasos
+5. Chicle en la esquina: mínimo 60 pasos
+6. Puente de chicle: mínimo 76 pasos
+7. Empacho: mínimo 78 pasos
+8. Ración doble: mínimo 80 pasos
+9. Atasco de golosinas: mínimo 89 pasos
 
 ## Créditos
 - Niveles, arte 16-bit y tarjetas: **Spider** (Fali + Claude), 2026
